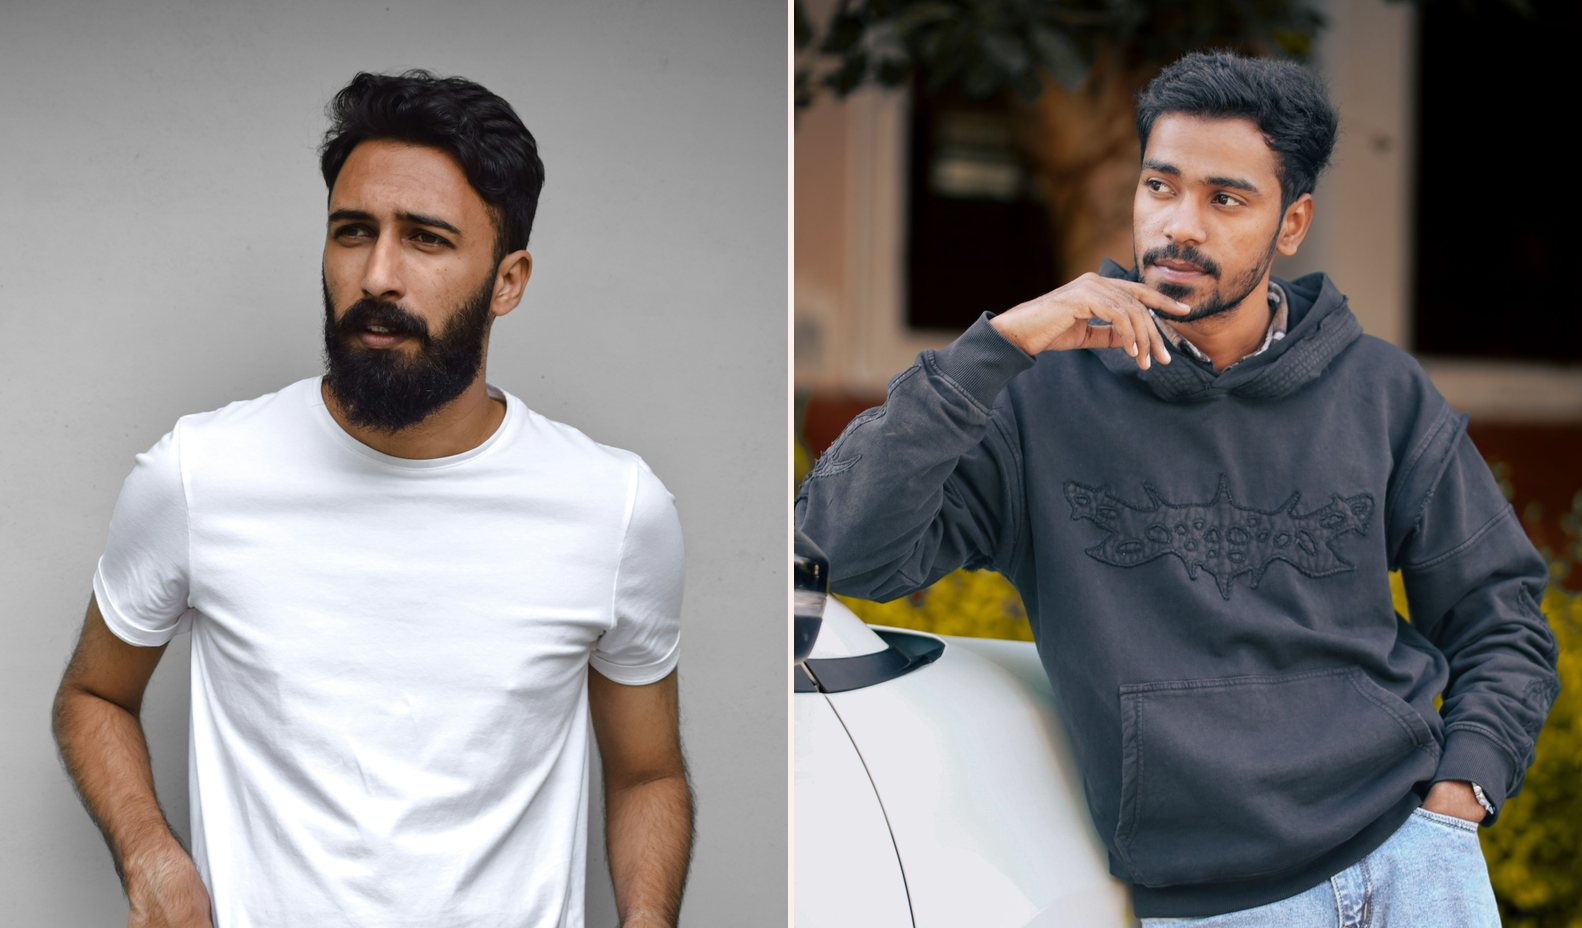
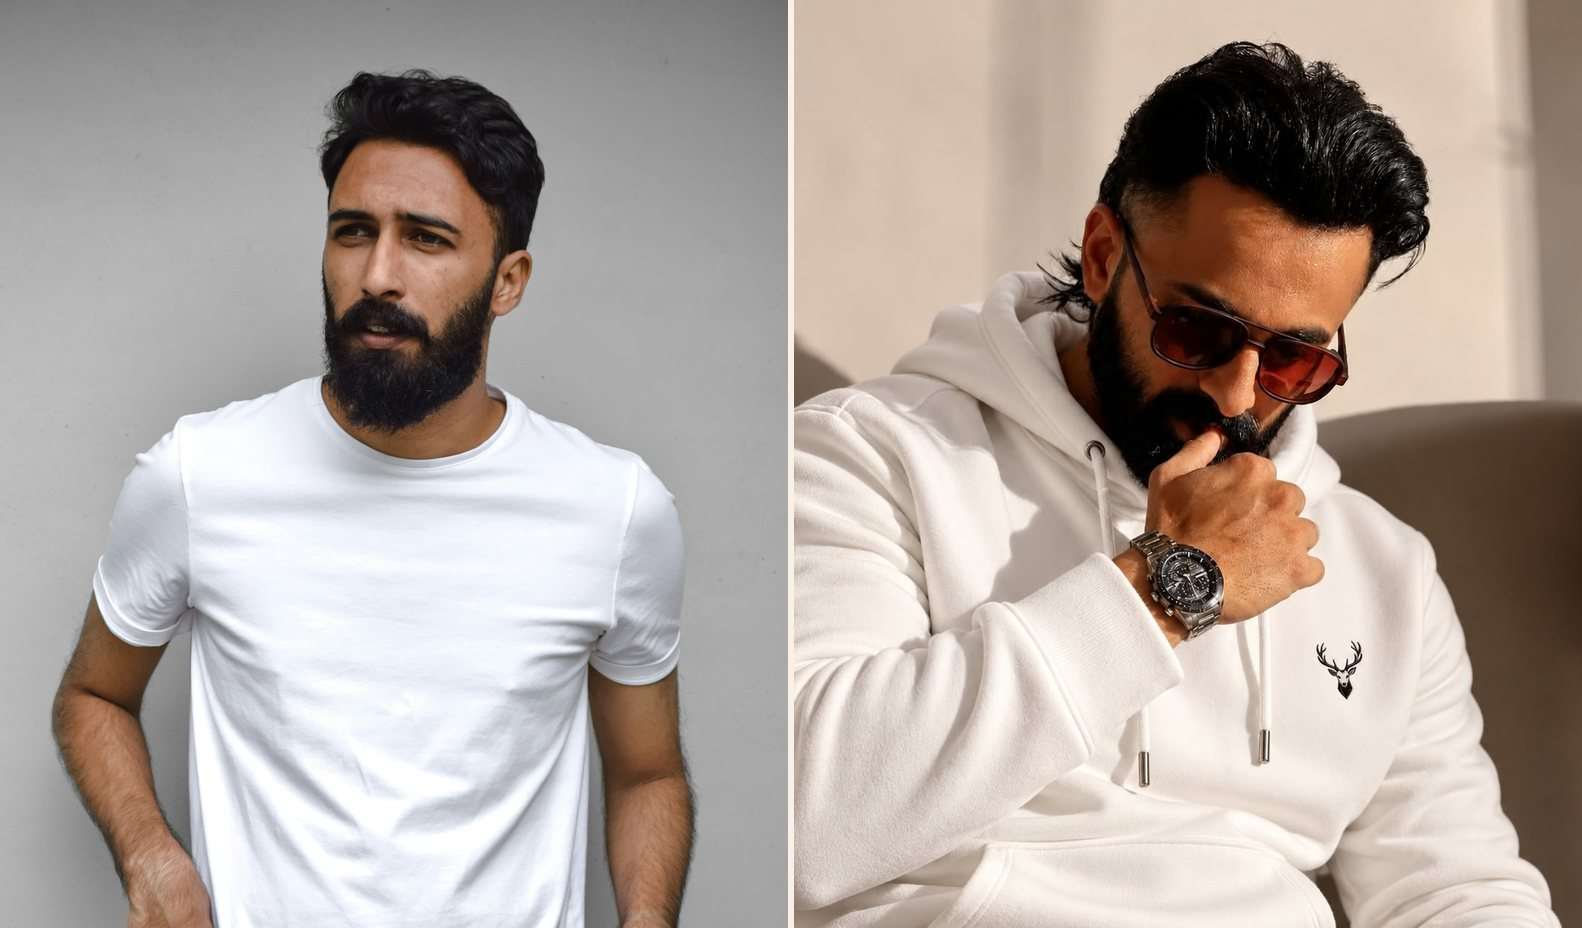
Hoodies card and hero slide: the client's photo of a man in a white hoodie

diff --git a/apps/web/src/components/home/HeroCarousel.tsx b/apps/web/src/components/home/HeroCarousel.tsx
@@ -23,7 +23,7 @@ interface Slide {
 const SLIDES: Slide[] = [
   { id: 'brand', cta: ['Shop now', '/shop'], img: '/brand/home/hero.jpg', alt: 'A smiling woman in a red kurta beside a rail with an embroidered kurti, a white T-shirt and a black hoodie', full: true },
   { id: 'kurtis', kicker: 'Ladies kurtis', title: ['Kurtis for ', 'every day'], text: 'Soft, breathable fabrics in easy colours you’ll wear again and again. Comfortable fits for work, college and home.', cta: ['Shop kurtis', '/shop/clothing/kurtas'], img: '/brand/home/slide-kurtis.jpg', alt: 'Smiling woman in a plain red kurti' },
-  { id: 'tees', kicker: 'Men’s wear', title: ['T-shirts ', '& hoodies'], text: 'Soft cotton T-shirts and warm hoodies for every day, in colours that go with everything.', cta: ['Shop now', '/shop/clothing/tees'], img: '/brand/home/slide-tees.jpg', alt: 'A man in a plain white T-shirt and a man in a charcoal hoodie', full: true },
+  { id: 'tees', kicker: 'Men’s wear', title: ['T-shirts ', '& hoodies'], text: 'Soft cotton T-shirts and warm hoodies for every day, in colours that go with everything.', cta: ['Shop now', '/shop/clothing/tees'], img: '/brand/home/slide-tees.jpg', alt: 'A man in a plain white T-shirt and a man in a white hoodie', full: true },
   { id: 'design', kicker: 'Embroidery design', title: ['Your design, ', 'stitched by hand'], text: 'Send a logo, a name or a sketch. We digitize it, send a stitch proof on WhatsApp, then embroider it on your piece.', cta: ['Start a design', '/studio'], img: 'photos/blossom.jpg', alt: 'Hand embroidery of pink blossoms in a hoop' },
 ];
 

diff --git a/apps/web/src/app/(store)/page.tsx b/apps/web/src/app/(store)/page.tsx
@@ -29,7 +29,7 @@ const IG: [string, string][] = [['blossom', 'A gift for Amma'], ['punch', 'Studi
 const RANGE_CARDS: [string, string, string, string][] = [
   ['cat-kurtis', 'Ladies Kurtis', '/shop/clothing/kurtas', 'Smiling woman in a red kurta'],
   ['cat-tees', 'Men’s T‑Shirts', '/shop/clothing/tees', 'Smiling man in a plain white T-shirt'],
-  ['cat-hoodies', 'Hoodies', '/shop/clothing/tees', 'Man in a charcoal hoodie leaning on a car'],
+  ['cat-hoodies', 'Hoodies', '/shop/clothing/tees', 'Man in a white hoodie and sunglasses'],
   ['cat-embroidery', 'Embroidery Design', '/studio', 'Floral embroidery in a wooden hoop'],
 ];
 
